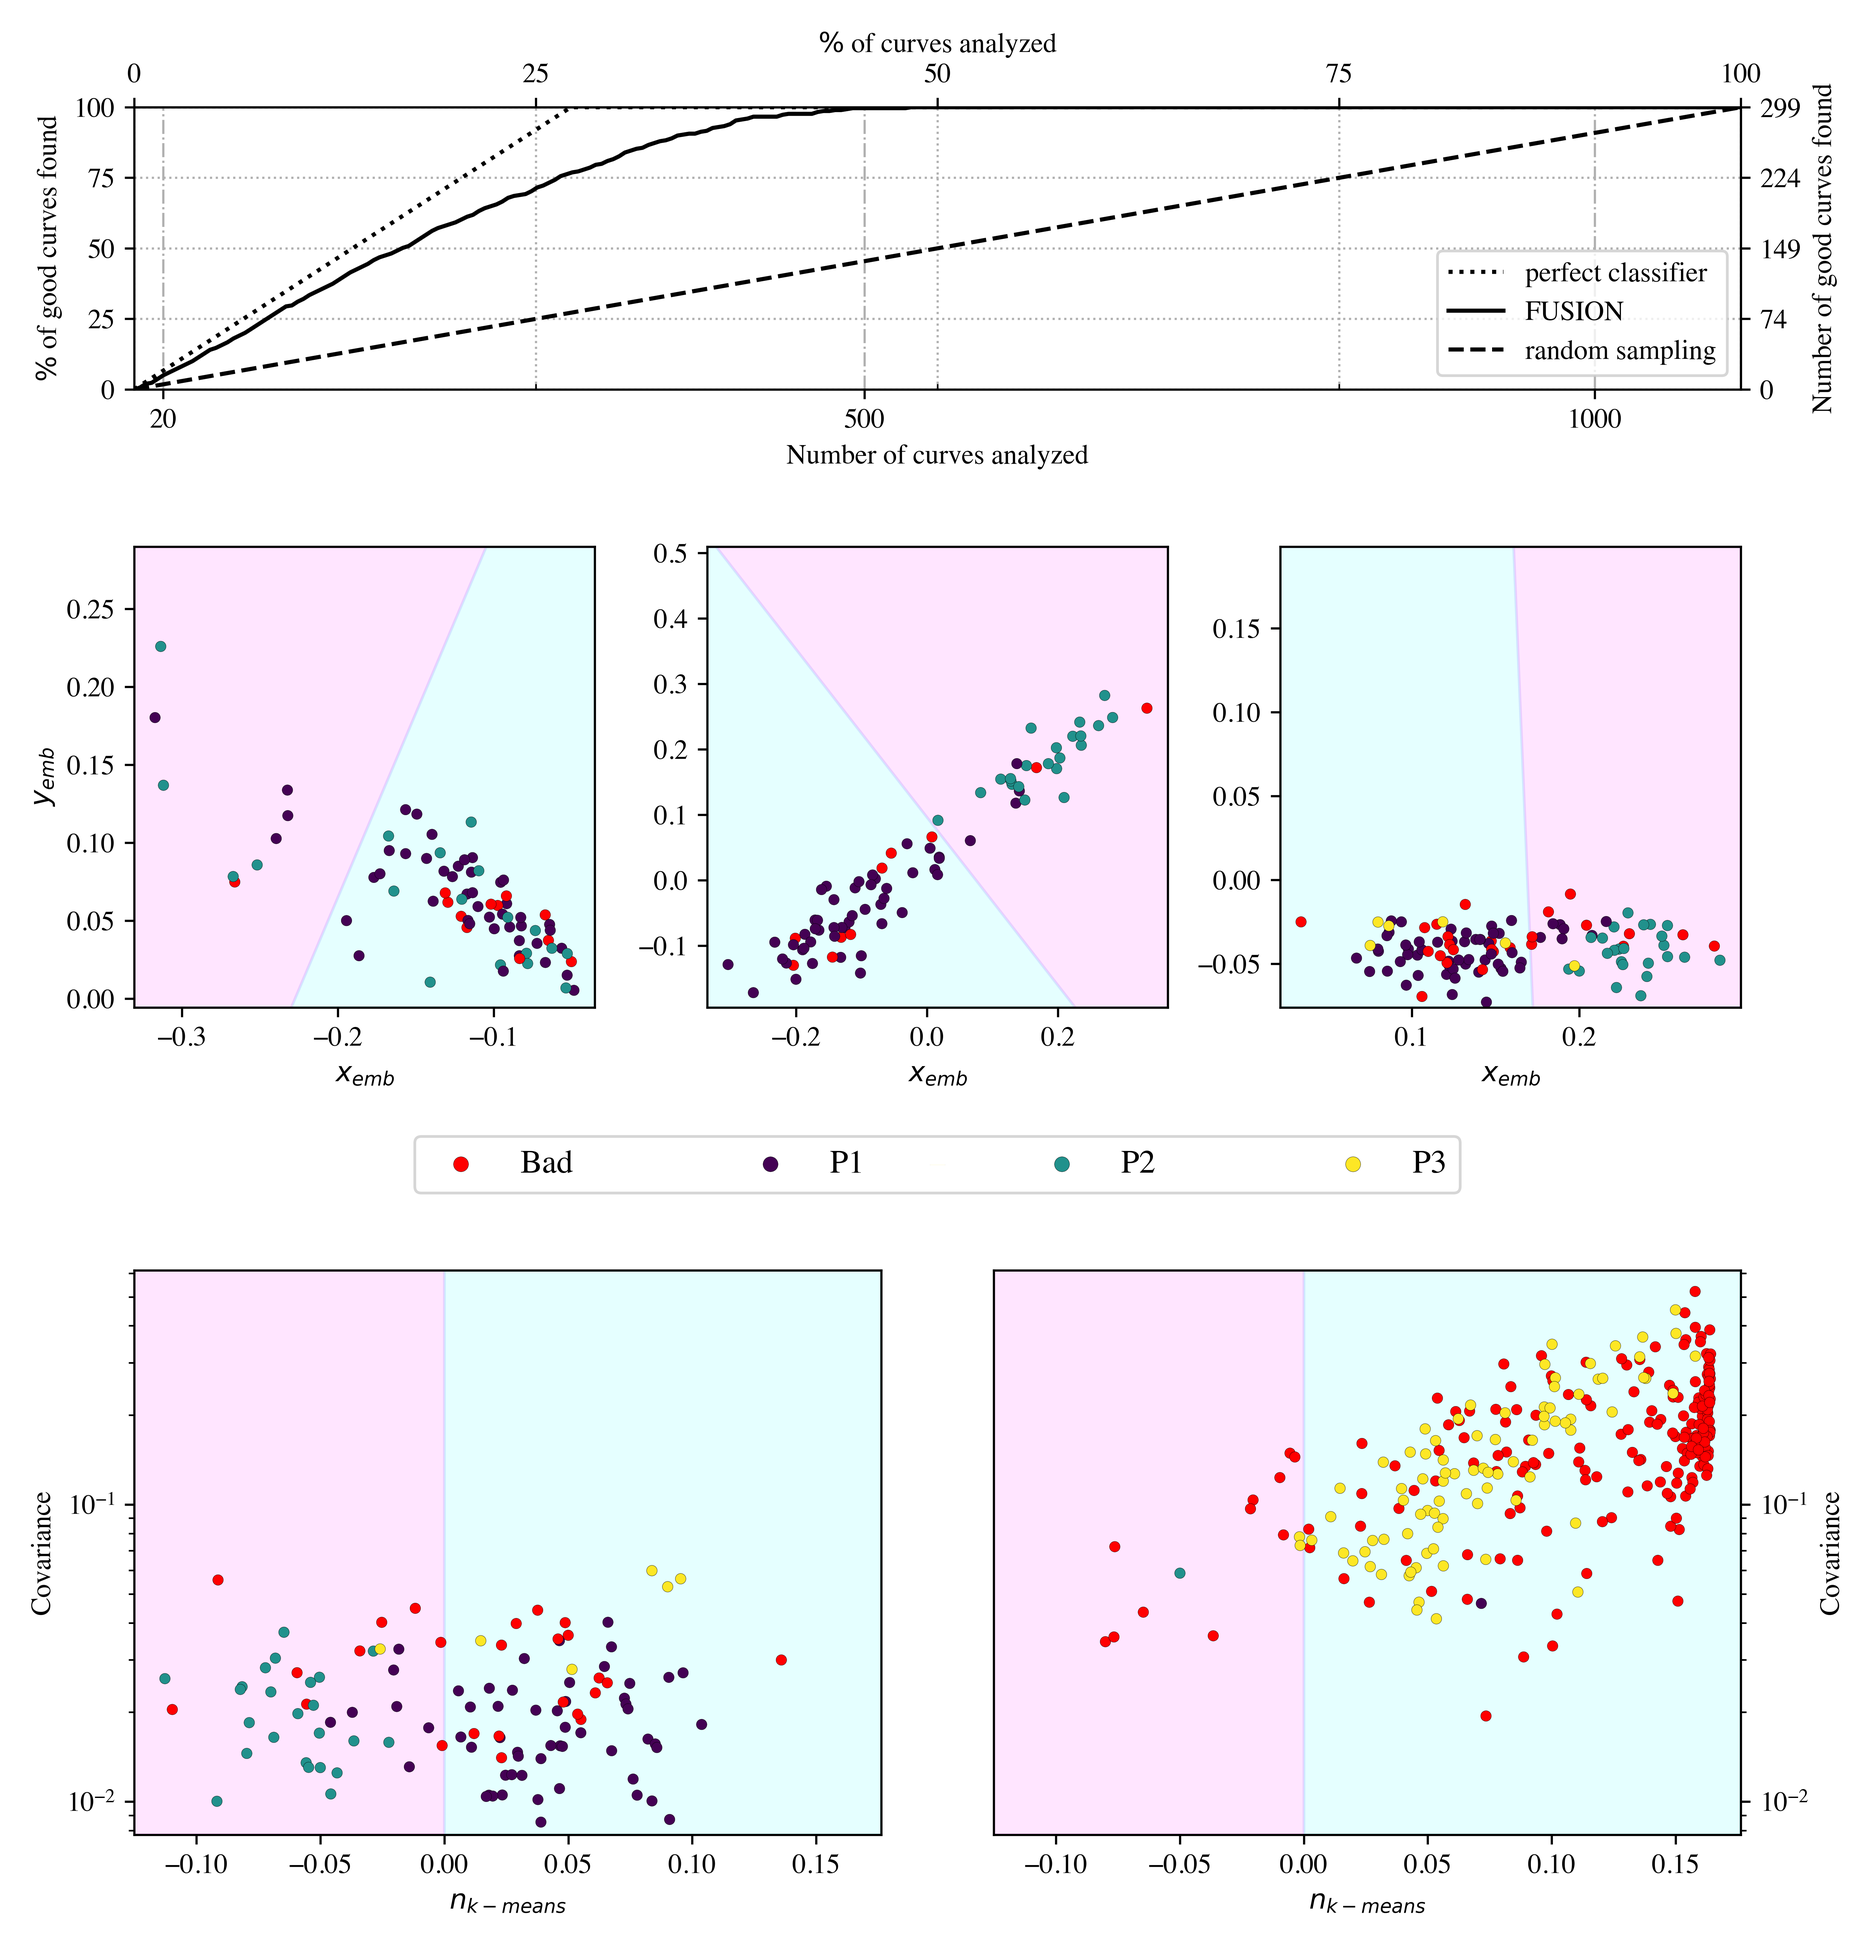
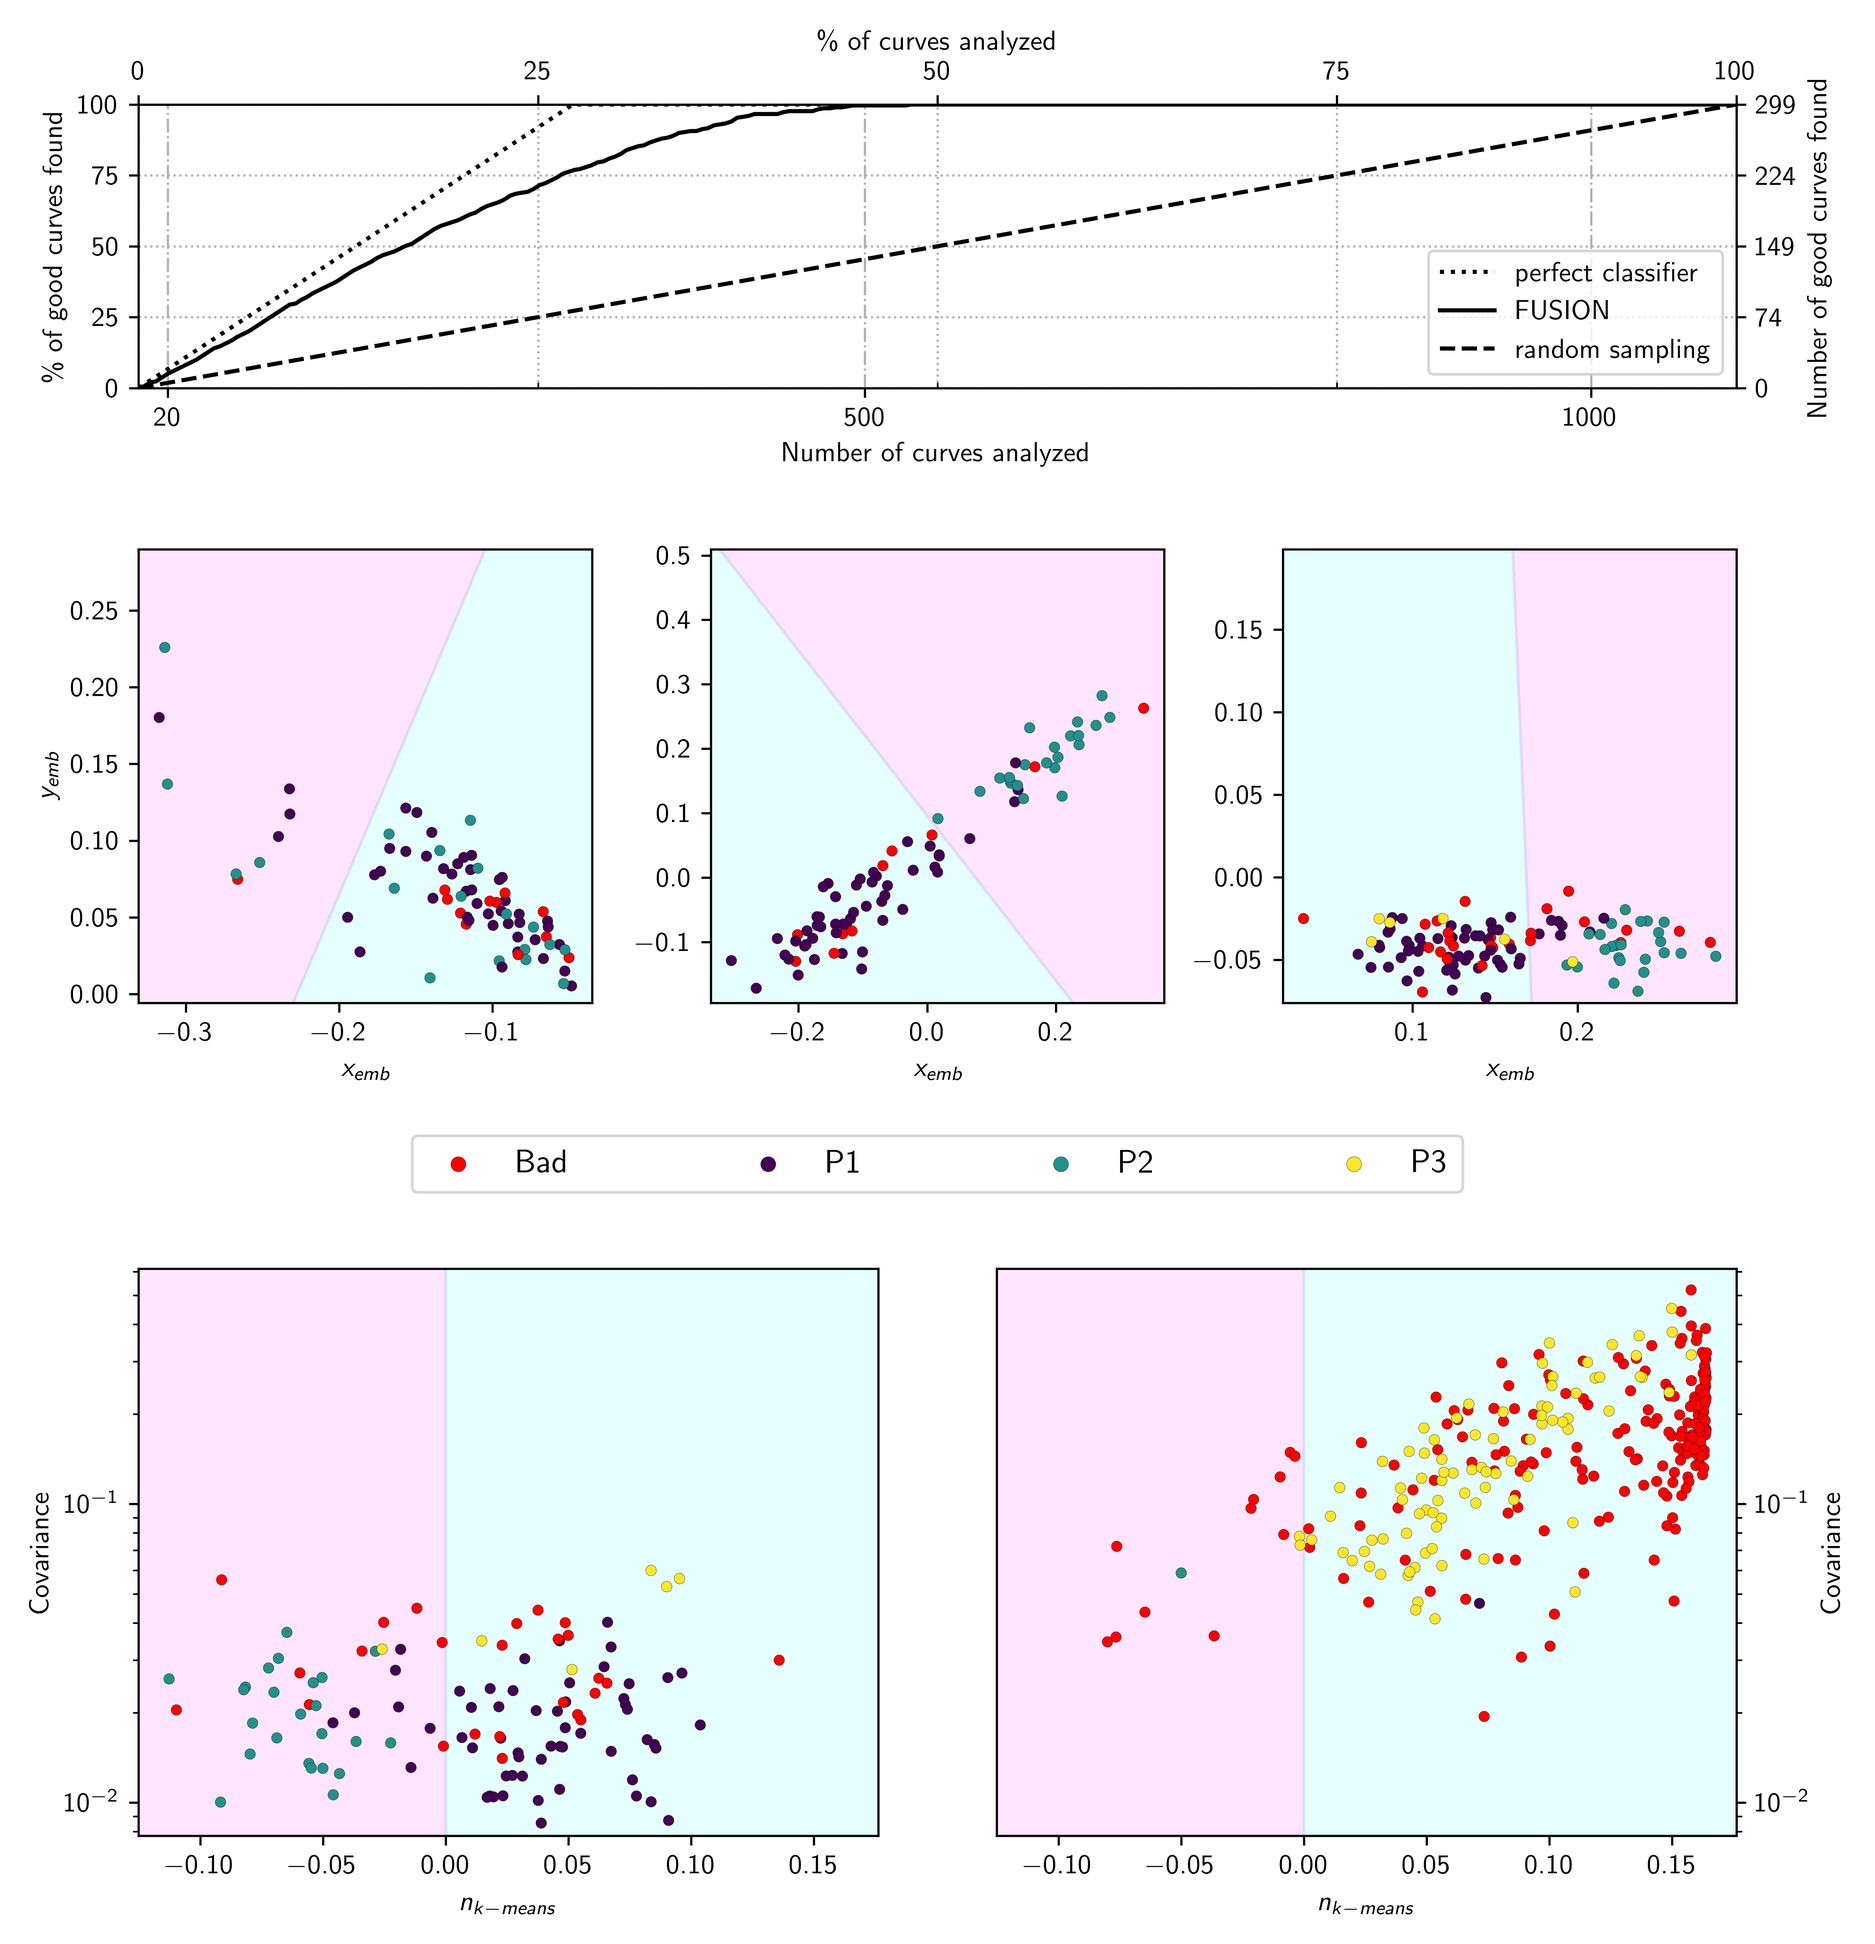
modified font Times -> Arial

diff --git a/FusionLearning.py b/FusionLearning.py
@@ -30,7 +30,11 @@ from tensorflow_addons.losses import TripletHardLoss #tfa.__version__ == 0.14.0
 import numpy as np #np.__version__ == 1.19.2
 import math
 import matplotlib.pyplot as plt #matplotlib.__version__ == 3.3.1
-plt.rcParams["font.family"] = "Times"#https://stackoverflow.com/questions/40734672/how-to-set-the-label-fonts-as-time-new-roman-by-drawparallels-in-python/40734893
+# plt.rcParams["font.family"] = "Times"#https://stackoverflow.com/questions/40734672/how-to-set-the-label-fonts-as-time-new-roman-by-drawparallels-in-python/40734893
+plt.rcParams['text.usetex'] = True 
+plt.rcParams['text.latex.preamble'] = r'\usepackage[cm]{sfmath}'
+plt.rcParams['font.family'] = 'sans-serif'
+plt.rcParams['font.sans-serif'] = 'Arial'
 from matplotlib.cm import cool,viridis
 from matplotlib import cm
 from matplotlib.colors import LinearSegmentedColormap
